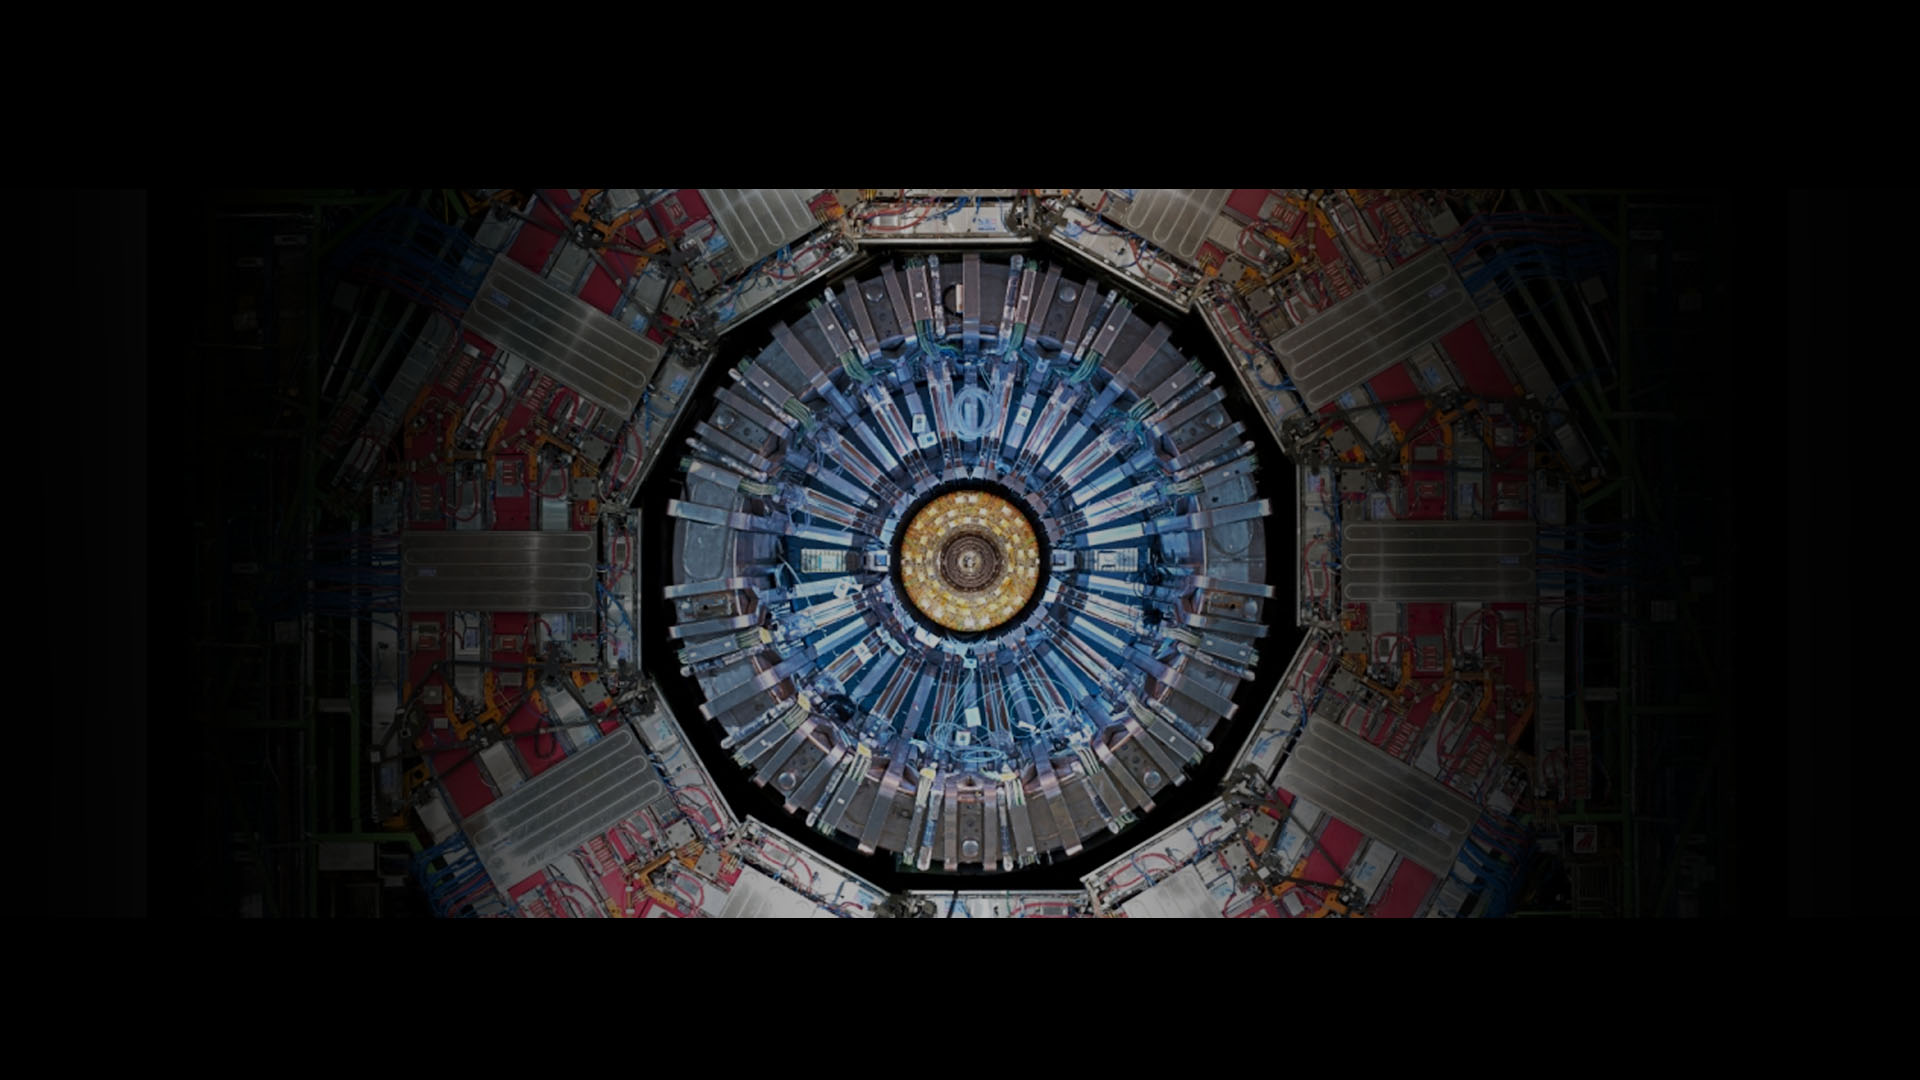
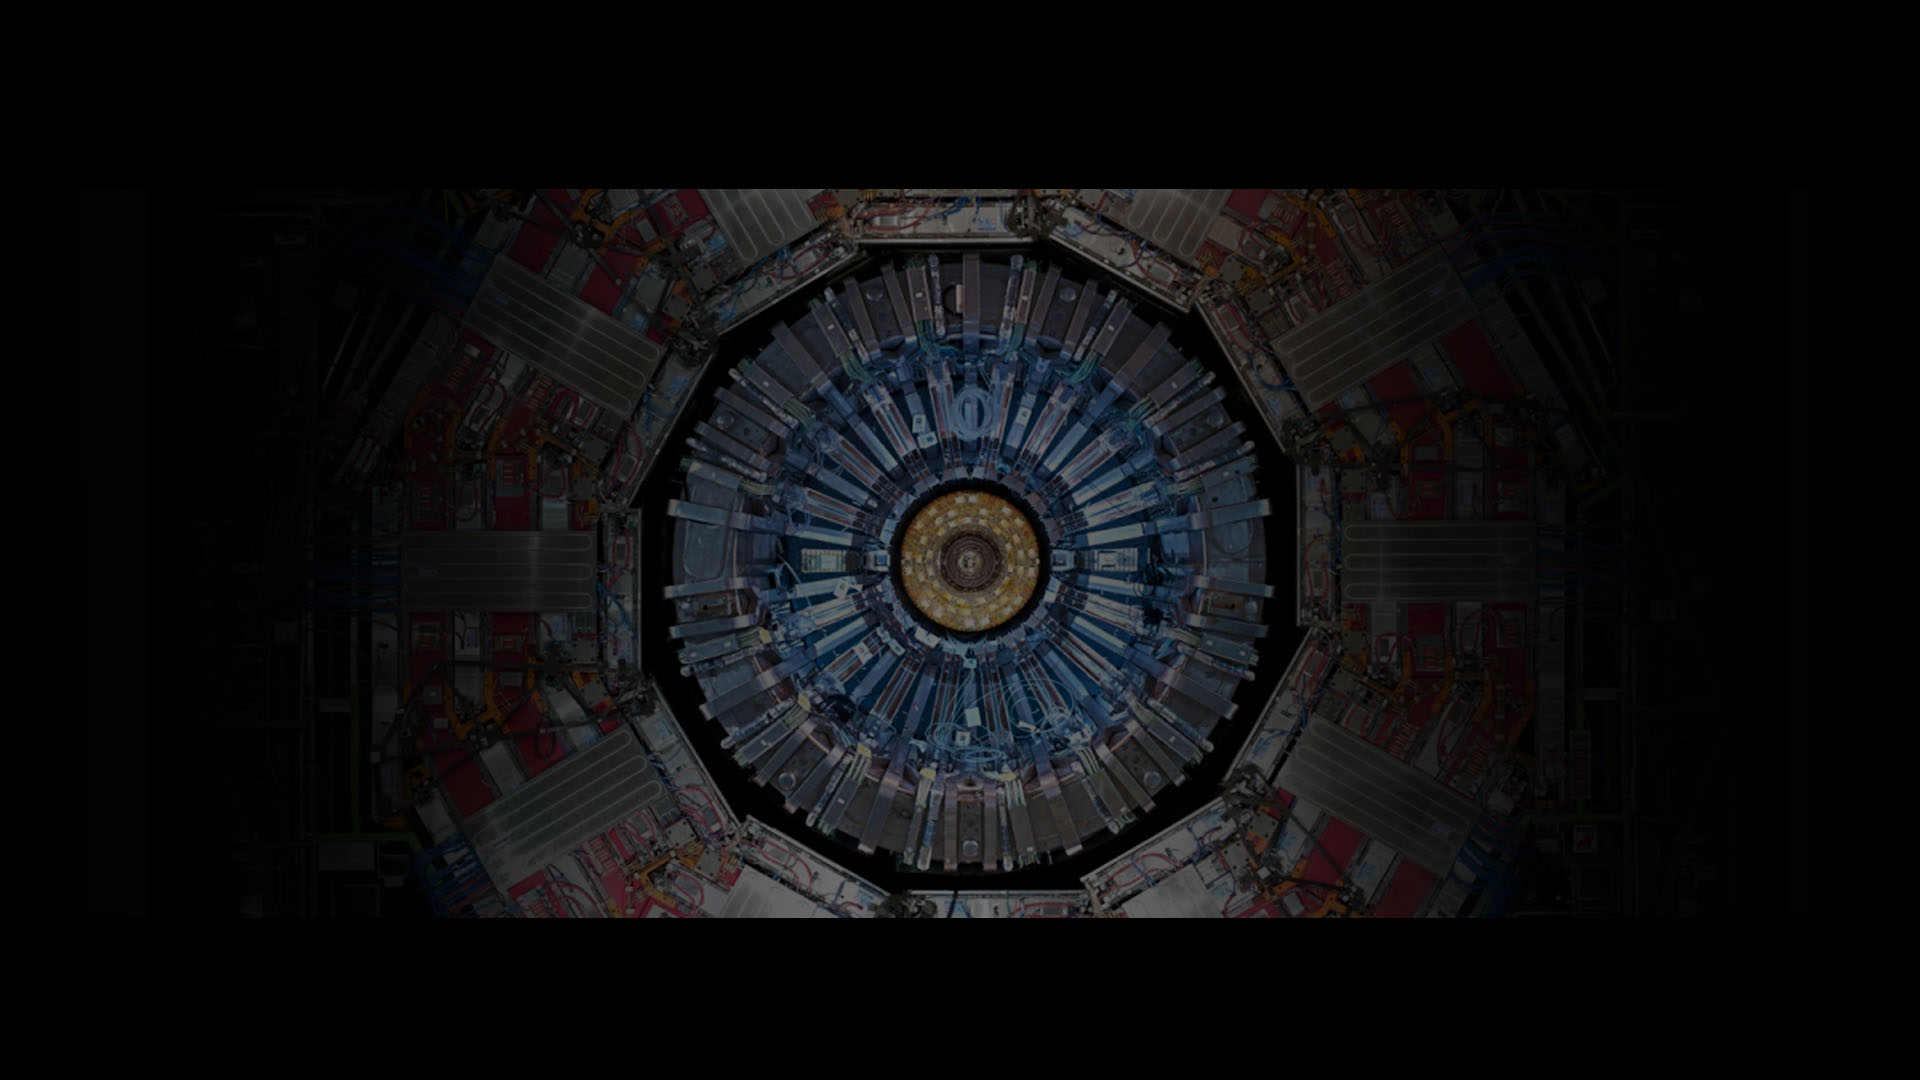
darken cover, add social links

Changed region(s): [[0.25, 0.1528, 0.75, 0.8556], [0.25, 0.4889, 0.2812, 0.5194], [0.2188, 0.5806, 0.25, 0.6111]]

diff --git a/_sections/intro.html b/_sections/intro.html
@@ -8,7 +8,7 @@ order: 1
 ---
 <header>
   <p style="font-size:40px">Hi there! I'm <strong>Sitong An</strong>.</p> 
-<p >I am an incoming Marie Curie Fellow at CERN, associated with the <a href="https://www.insights-itn.eu/">INSIGHTS ITN</a>.</p>
+<p >I am an incoming <strong>Marie Curie Fellow</strong> at <strong>CERN</strong>, associated with the <a href="https://www.insights-itn.eu/">INSIGHTS ITN</a>.</p>
   <p>I will be working to bring the lastest developments in <strong>Machine Learning</strong> to <strong>Particle Physics Experiments</strong>, in preparation for the upgrade to the <strong>HL-LHC</strong>.</p>
   <p>This is my personal website. It is still under construction. </p>
   <p>Come back soon to check out my journey to <strong>Accerlerate Science</strong>.</p>
